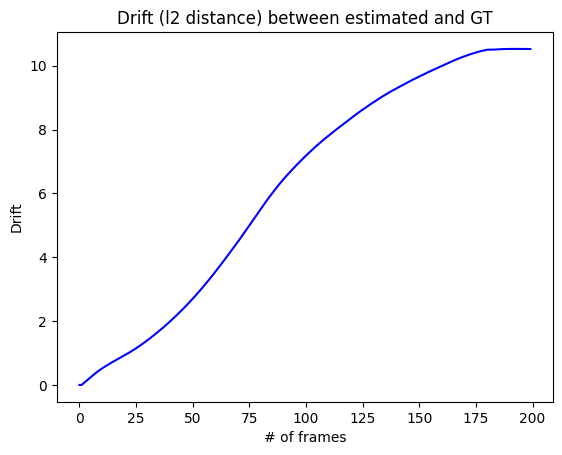
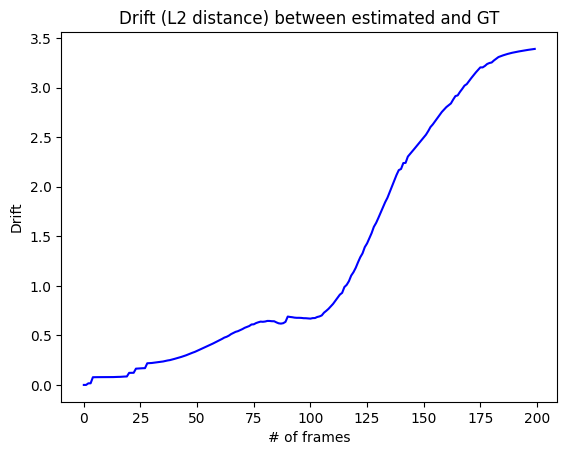
Detector/Descriptor Interface and feature matching

diff --git a/visual_odometry.py b/visual_odometry.py
@@ -1,10 +1,12 @@
 import numpy as np
 import cv2
+import detector
+
 
 STAGE_FIRST_FRAME = 0
 STAGE_SECOND_FRAME = 1
 STAGE_DEFAULT_FRAME = 2
-kMinNumFeature = 1600
+kMinNumFeature = 1200
 
 lk_params = dict(winSize=(21, 21),
                 maxLevel=6,
@@ -23,7 +25,16 @@ lk_params = dict(winSize=(21, 21),
 #                      blockSize=10)
 
 
-def featureTracking(image_ref, image_cur, px_ref):
+def feature_tracking(image_ref, image_cur, px_ref):
+    """
+    Finding point correspondences between previous and current image using Lucas-Kanade Optical Flow
+
+    :param image_ref: previous image
+    :param image_cur: current images
+    :param px_ref: key points detected/tracked in previous image
+    :return: point correspondences between previous and current image
+    """
+
     kp2, st, err = cv2.calcOpticalFlowPyrLK(image_ref, image_cur, px_ref, None, **lk_params)  # shape: [k,2] [k,1] [k,1]
     st = st.reshape(st.shape[0])
 
@@ -33,6 +44,64 @@ def featureTracking(image_ref, image_cur, px_ref):
     # idxs = np.random.choice(kp1.shape[0], min(kp1.shape[0], 10000), replace=False)
     # kp1 = kp1[idxs]
     # kp2 = kp2[idxs]
+
+    print(kp1.shape)
+    print(kp2.shape)
+    print(type(kp1[0][0]))
+    return kp1, kp2
+
+
+def feature_matching(px_ref, px_cur, des_ref, des_cur):
+    """
+    Finding point correspondences between previous and current image using Brute-Force or FLANN Matcher
+
+    :param px_ref: key points detected/tracked in previous image
+    :param px_cur: key points detected/tracked in current image
+    :param des_ref: descriptors corresponding to px_ref
+    :param des_cur: descriptors corresponding to px_cur
+    :return: point correspondences between previous and current image
+    """
+
+    print('-'*30)
+    print(f'# of point in ref: {len(px_ref)}')
+    print(f'# of descs in ref: {len(des_ref)}')
+
+    print(f'# of point in cur: {len(px_cur)}')
+    print(f'# of descs in cur: {len(des_cur)}')
+
+    #bf = cv2.BFMatcher(cv2.NORM_HAMMING, crossCheck=False)
+    #matches = bf.knnMatch(des_ref, des_cur, k=2)
+
+    FLANN_INDEX_LSH = 6
+    index_params = dict(algorithm=FLANN_INDEX_LSH,
+                        table_number=6,  # 12
+                        key_size=12,  # 20
+                        multi_probe_level=1)  # 2
+    search_params = dict(checks=50)  # or pass empty dictionary
+
+    flann = cv2.FlannBasedMatcher(index_params, search_params)
+    matches = flann.knnMatch(des_ref, des_cur, k=2)  # k=2 to apply ratio test
+
+    # Ratio Test as per Lowe's paper
+    # good = []
+    # for m, n in matches:
+    #     if m.distance < 0.7 * n.distance:
+    #         good.append(m)
+
+    # discard bad matches, ratio test as per Lowe's paper
+    good_matches = list(filter(lambda x: x[0].distance < 0.7 * x[1].distance,
+                          matches))
+    good_matches = [good_matches[i][0] for i in range(len(good_matches))]
+    # print(good_matches)
+
+    kp1 = []
+    kp2 = []
+    for mat in good_matches:
+        kp1.append(px_ref[mat.queryIdx])
+        kp2.append(px_cur[mat.trainIdx])
+
+    kp1 = np.array(kp1)
+    kp2 = np.array(kp2)
 
     return kp1, kp2
 
@@ -47,11 +116,19 @@ class VisualOdometry:
         self.cur_t = None
         self.px_ref = None
         self.px_cur = None
+        self.des_ref = None
+        self.des_cur = None
         self.inlier_ratio = 0
         self.focal = cam.fx
         self.pp = (cam.cx, cam.cy)
         self.trueX, self.trueY, self.trueZ = 0, 0, 0
-        self.detector = cv2.FastFeatureDetector_create(threshold=10, nonmaxSuppression=True)
+        self.correspondance_method = 'matching'
+        #brief_extractor = detector.BRIEF_extractor()
+        #self.detector = detector.SIFT(brief_extractor)
+        self.detector = detector.ORB()
+        #self.detector = detector.FAST_Detector()
+        #self.detector = cv2.FastFeatureDetector_create(threshold=10, nonmaxSuppression=True)
+        #self.detector = detector.Harris()
         with open(annotations) as f:
             self.annotations = f.readlines()
 
@@ -80,22 +157,40 @@ class VisualOdometry:
         return rel_scale
 
     def process_initial_frame(self):
-        self.px_ref = self.detector.detect(self.new_frame)
+        self.px_ref = self.detector.get_keypoints(self.new_frame)
         self.px_ref = np.array([x.pt for x in self.px_ref], dtype=np.float32)
+        if self.correspondance_method == 'matching':
+            self.des_ref = self.detector.get_descriptors(self.new_frame, self.px_ref)
+
         self.frame_stage = STAGE_SECOND_FRAME
 
     def process_second_frame(self):
-        self.px_ref, self.px_cur = featureTracking(self.last_frame, self.new_frame, self.px_ref)
+        if self.correspondance_method == 'tracking':
+            self.px_ref, self.px_cur = feature_tracking(self.last_frame, self.new_frame, self.px_ref)
+        else:
+            self.px_cur = self.detector.get_keypoints(self.new_frame)
+            self.px_cur = np.array([x.pt for x in self.px_cur], dtype=np.float32)
+            self.des_cur = self.detector.get_descriptors(self.new_frame, self.px_cur)
+            self.px_ref, self.px_cur = feature_matching(self.px_ref, self.px_cur, self.des_ref, self.des_cur)
+
         E, mask = cv2.findEssentialMat(self.px_cur, self.px_ref, focal=self.focal, pp=self.pp, method=cv2.RANSAC,
                                        prob=0.999, threshold=1.0)
         self.inlier_ratio = np.sum(mask) / (len(mask)+1)
 
         _, self.cur_R, self.cur_t, mask = cv2.recoverPose(E, self.px_cur, self.px_ref, focal=self.focal, pp=self.pp, mask=mask)
-        self.frame_stage = STAGE_DEFAULT_FRAME
+
         self.px_ref = self.px_cur
+        self.des_ref = self.des_cur
+        self.frame_stage = STAGE_DEFAULT_FRAME
 
     def process_frame(self, frame_id):
-        self.px_ref, self.px_cur = featureTracking(self.last_frame, self.new_frame, self.px_ref)
+        if self.correspondance_method == 'tracking':
+            self.px_ref, self.px_cur = feature_tracking(self.last_frame, self.new_frame, self.px_ref)
+        else:
+            self.px_cur = self.detector.get_keypoints(self.new_frame)
+            self.px_cur = np.array([x.pt for x in self.px_cur], dtype=np.float32)
+            self.des_cur = self.detector.get_descriptors(self.new_frame, self.px_cur)
+            self.px_ref, self.px_cur = feature_matching(self.px_ref, self.px_cur, self.des_ref, self.des_cur)
 
         E, mask = cv2.findEssentialMat(self.px_cur, self.px_ref, focal=self.focal, pp=self.pp, method=cv2.RANSAC,
                                        prob=0.999, threshold=1.0)
@@ -110,11 +205,12 @@ class VisualOdometry:
             self.cur_t = self.cur_t + absolute_scale * self.cur_R.dot(t)
             self.cur_R = R.dot(self.cur_R)
 
-        if self.px_ref.shape[0] < kMinNumFeature: #or frame_id % 50 == 0:
-            self.px_cur = self.detector.detect(self.new_frame)
+        if self.correspondance_method == 'tracking' and self.px_ref.shape[0] < kMinNumFeature: #or frame_id % 50 == 0:
+            self.px_cur = self.detector.get_keypoints(self.new_frame)
             self.px_cur = np.array([x.pt for x in self.px_cur], dtype=np.float32)
 
         self.px_ref = self.px_cur
+        self.des_ref = self.des_cur
 
     def update(self, img, frame_id):
         assert (img.ndim == 2 and img.shape[0] == self.cam.height and img.shape[1] == self.cam.width), \

diff --git a/detector.py b/detector.py
@@ -1,2 +1,143 @@
+import numpy as np
+
 import cv2
+
+
+# class KeyPoint():
+# 	def __init__(self, x, y):
+# 		self.pt = ()
+
+class DetectorDescriptorInterface:
+
+	def __init__(self, des_extractor):
+		self.frame = None
+		self.detector = None
+		self.des_extractor = des_extractor
+		self.kp = None
+		self.des = None
+
+	def get_keypoints(self, frame):
+		"""
+		Takes in a frame and detects key points
+
+		:param frame: frame from which to detect key points from
+		:return: frame location of detected points, shape: (numberOfKeypoints, 2)
+		"""
+		pass
+
+	def get_descriptors(self, frame, kp):
+		"""
+		If applicable for this detector, outputs the descriptors for each detected key point.
+		Otherwise, return None
+
+		:param frame: frame from which to detect key points from
+		:param kp: key points to compute descritors frome
+		:return: descriptors of detected points, shape: (numberOfKeypoints, descriptorDimension)
+		"""
+		pass
+
+
+class HarrisDetector(DetectorDescriptorInterface):
+	def __init__(self, des_extractor=None):
+		super().__init__(des_extractor)
+
+
+class ShiTomasiDetector(DetectorDescriptorInterface):
+	def __init__(self, des_extractor=None):
+		super().__init__(des_extractor)
+
+	def get_keypoints(self, frame):
+		corners = cv2.goodFeaturesToTrack(frame,
+										  maxCorners=5000,
+										  qualityLevel=0.1,
+										  minDistance=10,
+										  blockSize=10)
+
+		kp = [cv2.KeyPoint(c[0], c[1], 1.0) for c in np.squeeze(corners)]
+
+		#kp = self.detector.detect(frame)
+		return kp
+
+	def get_descriptors(self, frame, kp):
+		if self.des_extractor is None:
+			raise NotImplementedError("No descriptor extractor specified.")
+
+		return self.des_extractor.get_descriptors(frame, kp)
+
+
+class FAST_Detector(DetectorDescriptorInterface):
+	def __init__(self, des_extractor=None):
+		super().__init__(des_extractor)
+		self.detector = cv2.FastFeatureDetector_create(threshold=10, nonmaxSuppression=True)
+
+	def get_keypoints(self, frame):
+		kp = self.detector.detect(frame)
+		return kp
+
+	def get_descriptors(self, frame, kp):
+		if self.des_extractor is None:
+			raise NotImplementedError("No descriptor extractor specified.")
+
+		return self.des_extractor.get_descriptors(frame, kp)
+
+
+class SIFT(DetectorDescriptorInterface):
+	def __init__(self, des_extractor=None):
+		super().__init__(des_extractor)
+		self.detector = cv2.SIFT_create()
+
+	def get_keypoints(self, frame):
+		kp, des = self.detector.detectAndCompute(frame, None)
+		self.des = des
+		return kp
+
+	def get_descriptors(self, frame, kp):
+		if self.des_extractor is None:
+			return self.des
+
+		return self.des_extractor.get_descriptors(frame, kp)
+
+
+class SURF(DetectorDescriptorInterface):
+	def __init__(self, des_extractor=None):
+		super().__init__(des_extractor)
+		self.detector = cv2.xfeatures2d.SURF_create()
+
+	def get_keypoints(self, frame):
+		kp, des = self.detector.detectAndCompute(frame, None)
+		self.des = des
+		return kp
+
+	def get_descriptors(self, frame, kp):
+		if self.des_extractor is None:
+			return self.des
+
+		return self.des_extractor.get_descriptors(frame, kp)
+
+
+class ORB(DetectorDescriptorInterface):
+	def __init__(self, des_extractor=None):
+		super().__init__(des_extractor)
+		self.detector = cv2.ORB_create(nfeatures=5000)
+
+	def get_keypoints(self, frame):
+		kp, des = self.detector.detectAndCompute(frame, None)
+		self.des = des
+		return kp
+
+	def get_descriptors(self, frame, kp):
+		if self.des_extractor is None:
+			return self.des
+
+		return self.des_extractor.get_descriptors(frame, kp)
+
+
+class BRIEF_Extractor(DetectorDescriptorInterface):
+	def __init__(self, des_extractor=None):
+		super().__init__(des_extractor)
+		self.des_extractor = cv2.xfeatures2d.BriefDescriptorExtractor_create()
+
+	def get_descriptors(self, frame, kp):
+		return self.des_extractor.compute(frame, kp)
+
 
